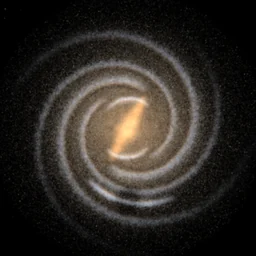
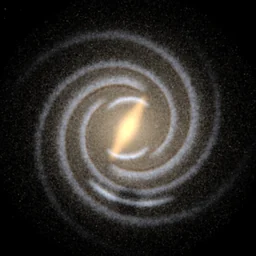
fix: Milky Way's bright center, subtler nebulae
- The dust was 4-8 times denser than measured, so the bulge vanished
  behind it: a dark center from Earth and edge-on. Now calibrated on
  measured extinction (A_V ~1 mag/kpc in the plane near the Sun, ~2
  toward Baade's Window, ~1 six degrees below the center, <0.2 toward
  the poles):
  - the inner 3 kpc swept clear of dust, as in the real galaxy, apart
    from a lighter central zone; a longer scale length (4 kpc)
  - narrow, dense lanes on the arms' inner edges: visible from above,
    without darkening the whole disk
  - the Sun inside the Local Bubble, a dust-free cavity ~150 pc wide
  - the dust map keeps fine steps where dust is thin (square-root
    encoding)
- The bulge reaches ~1.5 kpc above and below the plane (exponential
  profile): from Earth its star clouds rise above the dust like the
  real ones in Sagittarius, with a thin rift through them; edge-on it's
  a bright bulge crossed by a thin dark lane
- Nebulae: paler pink, soft clouds instead of ragged red blobs, and
  faint: a few as bright as the Lagoon or Orion nebulae, most far dimmer
- Card image regenerated

diff --git a/src/lib/galaxy/galaxyShaders.ts b/src/lib/galaxy/galaxyShaders.ts
@@ -25,8 +25,10 @@ export const ARM_COUNT = ARMS.length;
 const DUST_HEIGHT = 0.1;
 const DUST_SLAB = 0.6;
 const DUST_STEPS = 10;
-/** The dust map stores surface density divided by this, to fit 8 bits */
+/** The dust map stores √(surface density / this): 8 bits, fine steps where dust is thin */
 const DUST_MAP_MAX = 4;
+/** The Local Bubble: the Sun sits in a hot cavity almost free of dust, ~150 pc across (kpc) */
+const LOCAL_BUBBLE: [number, number] = [0.1, 0.25];
 /** Globular clusters: the first stars of the index range, one per cluster */
 const GLOBULAR_COUNT = 160;
 /** Young stars are born in groups: this many consecutive indices per cluster */
@@ -109,7 +111,7 @@ const DUST = /* glsl */ `
   #define DUST_HEIGHT ${glslFloat(DUST_HEIGHT)}
   #define DUST_SLAB ${glslFloat(DUST_SLAB)}
   #define DUST_STEPS ${DUST_STEPS}
-  uniform sampler2D uDust;    // surface density / ${DUST_MAP_MAX}, over ±uDustRadius (kpc)
+  uniform sampler2D uDust;    // √(surface density / ${DUST_MAP_MAX}), over ±uDustRadius (kpc)
   uniform float uDustRadius;
   uniform float uDustOpacity; // optical depth per kpc for unit density
   uniform vec3 uCameraKpc;    // camera, model axes, kpc
@@ -117,7 +119,7 @@ const DUST = /* glsl */ `
   /**
    * Optical depth along the segment from p to the camera, through the dust
    * layer only (clipped to |z| < DUST_SLAB), sampled more finely near the
-   * camera, where clouds cover more sky
+   * camera, where clouds cover more sky. Empty inside the Local Bubble
    */
   float dustDepth(vec3 p, float jitter) {
     vec3 d = uCameraKpc - p;
@@ -137,7 +139,9 @@ const DUST = /* glsl */ `
     for (int k = 0; k < DUST_STEPS; k++) {
       float x = (float(k) + jitter) / float(DUST_STEPS);
       vec3 q = p + d * (t1 - (t1 - t0) * x * x);
-      float column = texture(uDust, q.xy / (2.0 * uDustRadius) + 0.5).r * ${glslFloat(DUST_MAP_MAX)};
+      float v = texture(uDust, q.xy / (2.0 * uDustRadius) + 0.5).r;
+      float bubble = smoothstep(${glslFloat(LOCAL_BUBBLE[0])}, ${glslFloat(LOCAL_BUBBLE[1])}, length(q - vec3(0.0, -SUN_KPC, 0.0)));
+      float column = v * v * ${glslFloat(DUST_MAP_MAX)} * bubble;
       tau += column * exp(-abs(q.z) / DUST_HEIGHT) / (2.0 * DUST_HEIGHT) * 2.0 * x / float(DUST_STEPS) * len;
     }
     return tau * uDustOpacity;
@@ -242,8 +246,10 @@ export const galaxyStarVertexShader = /* glsl */ `
       color = vec3(1.0, 0.9, 0.72);
       dMag = -1.5;
     } else if (f < 0.1) {
-      // Bulge: boxy, aligned with the bar, old warm stars
-      pos = vec3(rotate(vec2(gauss(s), gauss(s) * 0.5), uBar.z), gauss(s) * 0.42);
+      // Bulge: boxy, aligned with the bar, old warm stars, reaching ~1.5 kpc
+      // above and below the plane (seen from Earth: the star clouds of
+      // Sagittarius, beyond the dust)
+      pos = vec3(rotate(vec2(gauss(s), gauss(s) * 0.5), uBar.z), laplace(s, 0.45));
       color = warm(s);
       dMag = 0.3;
     } else if (f < 0.172) {
@@ -385,7 +391,8 @@ export const splatFragmentShader = /* glsl */ `
 
 /**
  * Star-forming regions: clouds of hydrogen lit pink by young stars, along the
- * arms, 10–80 ly across. Extended objects: up close a ragged cloud of
+ * arms, 10–80 ly across. Faint: a few as bright as the Lagoon or Orion
+ * nebulae, most far dimmer. Extended objects: up close a soft cloud of
  * constant surface brightness, far away a point with the same total light.
  * Dimmed and reddened by the dust in front, like the stars.
  */
@@ -415,8 +422,10 @@ export const nebulaVertexShader = /* glsl */ `
     float px = 2.0 * radius * uScenePerKpc * uFocalPx / max(length(mvPosition.xyz), 1e-6);
     float tau = dustDepth(pos, rnd(s));
     float t = rnd(s);
-    vColor = vec3(1.0, 0.34 + t * 0.12, 0.5 + t * 0.12) * exp(-tau * vec3(0.75, 1.0, 1.35));
-    vFlux = uBrightness * armEnvelope(a, along) * min(1.0, (px * px) / (uMinPx * uMinPx));
+    // Hα red with some Hβ and oxygen light: a pale pink
+    vColor = vec3(1.0, 0.5 + t * 0.1, 0.6 + t * 0.1) * exp(-tau * vec3(0.75, 1.0, 1.35));
+    float lit = 0.1 + 0.9 * pow(rnd(s), 3.0);
+    vFlux = uBrightness * lit * armEnvelope(a, along) * min(1.0, (px * px) / (uMinPx * uMinPx));
     vSeed = rnd(s) * 100.0;
     gl_PointSize = clamp(px, uMinPx, uMaxPx);
   }
@@ -442,11 +451,11 @@ export const nebulaFragmentShader = /* glsl */ `
 
   void main() {
     vec2 c = gl_PointCoord - vec2(0.5);
-    // Ragged, filamentary: gas, not a disc
+    // Uneven, wispy: gas, not a disc
     vec2 q = c * 5.0 + vSeed;
     float wisps = noise(q) * 0.65 + noise(q * 2.3) * 0.35;
     float edge = max(1.0 - 4.0 * dot(c, c), 0.0);
-    float light = vFlux * exp(-dot(c, c) * 10.0) * edge * edge * smoothstep(0.35, 0.85, wisps) * 1.8;
+    float light = vFlux * exp(-dot(c, c) * 8.0) * edge * edge * (0.45 + 0.55 * smoothstep(0.3, 0.8, wisps));
     gl_FragColor = vec4(vColor * light, 1.0);
   }
 `;
@@ -521,8 +530,11 @@ export const bakeVertexShader = /* glsl */ `
 
 /**
  * Dust surface density across the disk (data, never shown): a diffuse
- * exponential layer, lanes along the arms' inner edges, clumpy clouds, and
- * the dense clouds around the center
+ * layer, clumpy and spread wider than the stars, swept out of the inner
+ * galaxy inside the bar; lanes along the arms' inner edges, where most of it
+ * gathers; the dense clouds of the very center. Calibrated on measured
+ * extinction (A_V): ~1 magnitude per kpc in the plane near the Sun, ~2
+ * toward Baade's Window, ~1 six degrees below the Galactic Center
  */
 export const dustBakeFragmentShader = /* glsl */ `
   ${COMMON}
@@ -559,7 +571,8 @@ export const dustBakeFragmentShader = /* glsl */ `
     float edge = 1.0 - smoothstep(12.0, 16.0, R);
     float clouds = fbm(p * 1.6);
 
-    float dust = 0.6 * exp(-R / 3.2) * edge * (0.25 + 1.5 * clouds * clouds);
+    float inner = 1.0 - exp(-R * R / 9.0);
+    float dust = 0.5 * exp(-R / 4.0) * inner * edge * (0.25 + 1.5 * clouds * clouds);
     for (int i = 0; i < ARM_COUNT; i++) {
       vec4 A = uArmA[i];
       float k = A.z;
@@ -569,15 +582,15 @@ export const dustBakeFragmentShader = /* glsl */ `
       float ridge = A.x * exp(along * k);
       float off = (R - ridge) * inversesqrt(1.0 + k * k);
       float w = uArmB[i].x * (1.0 + 0.05 * ridge);
-      // Lanes along the inner edge, ragged
+      // Lanes along the inner edge: narrow, dense, ragged
       float dOff = off + 0.85 * w;
-      float dw = 0.4 * w;
+      float dw = 0.25 * w;
       float lane = exp(-dOff * dOff / (2.0 * dw * dw));
       float ragged = 0.35 + 0.9 * fbm(vec2(along * ridge * 1.8, dOff * 7.0) + uArmB[i].w + 11.0);
-      dust += 0.9 * uArmB[i].y * armEnvelope(i, along) * lane * ragged;
+      dust += 2.9 * uArmB[i].y * armEnvelope(i, along) * lane * ragged;
     }
     // The Central Molecular Zone
-    dust += 1.0 * exp(-R * R / 0.06);
-    gl_FragColor = vec4(min(dust / ${glslFloat(DUST_MAP_MAX)}, 1.0), 0.0, 0.0, 1.0);
+    dust += 0.4 * exp(-R * R / 0.06);
+    gl_FragColor = vec4(sqrt(min(dust / ${glslFloat(DUST_MAP_MAX)}, 1.0)), 0.0, 0.0, 1.0);
   }
 `;

diff --git a/src/lib/galaxy/MilkyWay.tsx b/src/lib/galaxy/MilkyWay.tsx
@@ -29,7 +29,7 @@ const PARTICLE_MAG = -7.8;
 // as glow, gradually in between: far away, their stars can't be told apart
 const RESOLVED_KPC = new THREE.Vector2(12, 24);
 const NEBULAE = 6000;
-const NEBULA_BRIGHTNESS = 1.5e-3;
+const NEBULA_BRIGHTNESS = 5e-4;
 const NEBULA_MIN_PX = 1.5;
 const NEBULA_MAX_PX = 48;
 // Stars as points: fainter than this aren't drawn (fading over the last 1.5
@@ -43,9 +43,9 @@ const GLOW_BLUR = 1;
 const GLOW_BLUR_REACH = 4;
 const GLOW_SOFTENING = 3e-4;
 const GLOW_WHITE = 0.03;
-// Dust: optical depth per kpc through unit density (~1 magnitude per kpc in
-// the plane near the Sun)
-const DUST_OPACITY = 7;
+// Dust: optical depth per kpc through unit density (calibrated on measured
+// extinction, see dustBakeFragmentShader)
+const DUST_OPACITY = 1.6;
 // The dust map: 1024 px across 35 kpc (34 pc per pixel)
 const DUST_RADIUS_KPC = 17.5;
 const DUST_MAP_SIZE = 1024;

diff --git a/CLAUDE.md b/CLAUDE.md
@@ -99,12 +99,12 @@ main.tsx → ScaleProvider → CameraNavigationProvider → TimeProvider → Sel
 - **Placement**: `GALAXY_MATRIX` rotates the model into ecliptic J2000 (galactic → equatorial → ecliptic): the Galactic Center lies toward Sagittarius, the disk is tilted ~60° to the planets' plane, so from the Solar System the Milky Way crosses the sky as it really does. Scale `GALAXY_SCALE = 250,000,000` scene units per model unit: a backdrop, ~600× smaller than real relative to the Solar System in real scale.
 - **Made of stars and dust only** (`MilkyWay.tsx`, `galaxyShaders.ts`), the same rules from every viewpoint (face-on, edge-on, from Earth). Two star sets:
   - `generateSky`: 120,000 single stars in 3D around the Sun, down to mag 9.5 seen from the Sun (B/A/F/G stars, K/M giants; about the real counts per magnitude, `src/__tests__/sky.test.ts`). Seeded: same sky on every visit.
-  - 2 million groups of stars generated on the GPU from their index (empty geometry + draw range, `gl_VertexID` → PCG hash; 600k on touch screens, 150k on software WebGL via `isSoftwareRenderer`): globulars, boxy bulge, bar, thin and thick disk, old stars along the arms, young blue clusters (16 consecutive indices each), halo. Absolute magnitude −7.8 with 2 million; with fewer each is brighter, so the galaxy's light stays the same. They thin out within 0.8–2.2 kpc of the Sun, where the single stars take over.
+  - 2 million groups of stars generated on the GPU from their index (empty geometry + draw range, `gl_VertexID` → PCG hash; 600k on touch screens, 150k on software WebGL via `isSoftwareRenderer`): globulars, boxy bulge (exponential vertical profile, 0.45 kpc: from Earth it rises above the dust as the Sagittarius star clouds), bar, thin and thick disk, old stars along the arms, young blue clusters (16 consecutive indices each), halo. Absolute magnitude −7.8 with 2 million; with fewer each is brighter, so the galaxy's light stays the same. They thin out within 0.8–2.2 kpc of the Sun, where the single stars take over.
 - **Photometry**: one rule for every star: magnitude from absolute magnitude, distance and dust (`+1.0857 τ`), light relative to a magnitude-1 star. Then two looks, by distance from the camera:
   - **Points** (single stars, and groups nearer than 12 kpc): brightness compressed like a photo (`flux^0.42`, capped at white), size 1.4–4.6 px growing with it, fading over the last 1.5 mag before mag 12. Groups get `uPointFlux` on devices with fewer of them (compressed light doesn't add up linearly).
   - **Glow** (groups beyond 24 kpc, gradually from 12): their stars can't be told apart, so their light is summed linearly in a half-float buffer of its own (portal scene, 2-px bilinear splats, rendered at frame priority 0.5: after the camera moves, before the composer), blurred (Gaussian, 1 CSS px) and stretched like an astronomical photo (asinh) onto a full-screen quad under everything else (renderOrder −1000, additive). In light per CSS pixel: the same on every screen and at every distance (surface brightness is conserved).
-- **Dust**: a 3D field. Surface density baked once into a 1024² map (`dustBakeFragmentShader`: diffuse exponential layer with clouds, lanes on the arms' inner edges, the Central Molecular Zone; `compileAsync`, a strip per frame) × a vertical profile (scale height 0.1 kpc). Every star and nebula integrates the dust between it and the camera (10 samples, denser near the camera): dimmed and reddened. The lanes seen from above, the dark midplane edge-on and the rifts of the band from Earth all come from it.
-- **Nebulae**: 6,000 star-forming regions along the arms, ragged sprites of constant surface brightness (flux-conserving below 1.5 px), in the glow buffer.
+- **Dust**: a 3D field. Surface density baked once into a 1024² map, stored as √(density/4) for 8-bit precision where it's thin (`dustBakeFragmentShader`: a clumpy diffuse layer with a 4 kpc scale length, swept out of the inner 3 kpc; narrow dense lanes on the arms' inner edges; a light Central Molecular Zone; `compileAsync`, a strip per frame) × a vertical profile (scale height 0.1 kpc), empty inside the Local Bubble (0.1–0.25 kpc around the Sun). Every star and nebula integrates the dust between it and the camera (10 samples, denser near the camera): dimmed and reddened. Calibrated (`DUST_OPACITY`) on measured extinction: A_V ≈ 1 mag/kpc in the plane near the Sun, ≈ 2 toward Baade's Window, ≈ 1 at b = −6°, ≈ 0.6 at b = −10°, < 0.2 toward the poles (an earlier, 4–8× denser version hid the bulge: the galaxy's center looked dark from Earth and edge-on). The lanes seen from above, the thin dark midplane edge-on and the rift through the band from Earth all come from it.
+- **Nebulae**: 6,000 star-forming regions along the arms, soft pale-pink sprites of constant surface brightness (flux-conserving below 1.5 px), in the glow buffer. Faint: a few as bright as the Lagoon or Orion nebulae, most far dimmer (`lit` ∝ rnd³).
 - Design rule: no image planes, no glow baked into the sky, no star popping in or out with zoom; every change in brightness comes from distance and dust. Tried and dropped: a sky glow baked from the model (read as haze), a textured disk plane (vanished edge-on), one asinh stretch for every star (stars turned into blobs).
 
 ### Camera (`lib/camera/CameraRig.tsx`)
